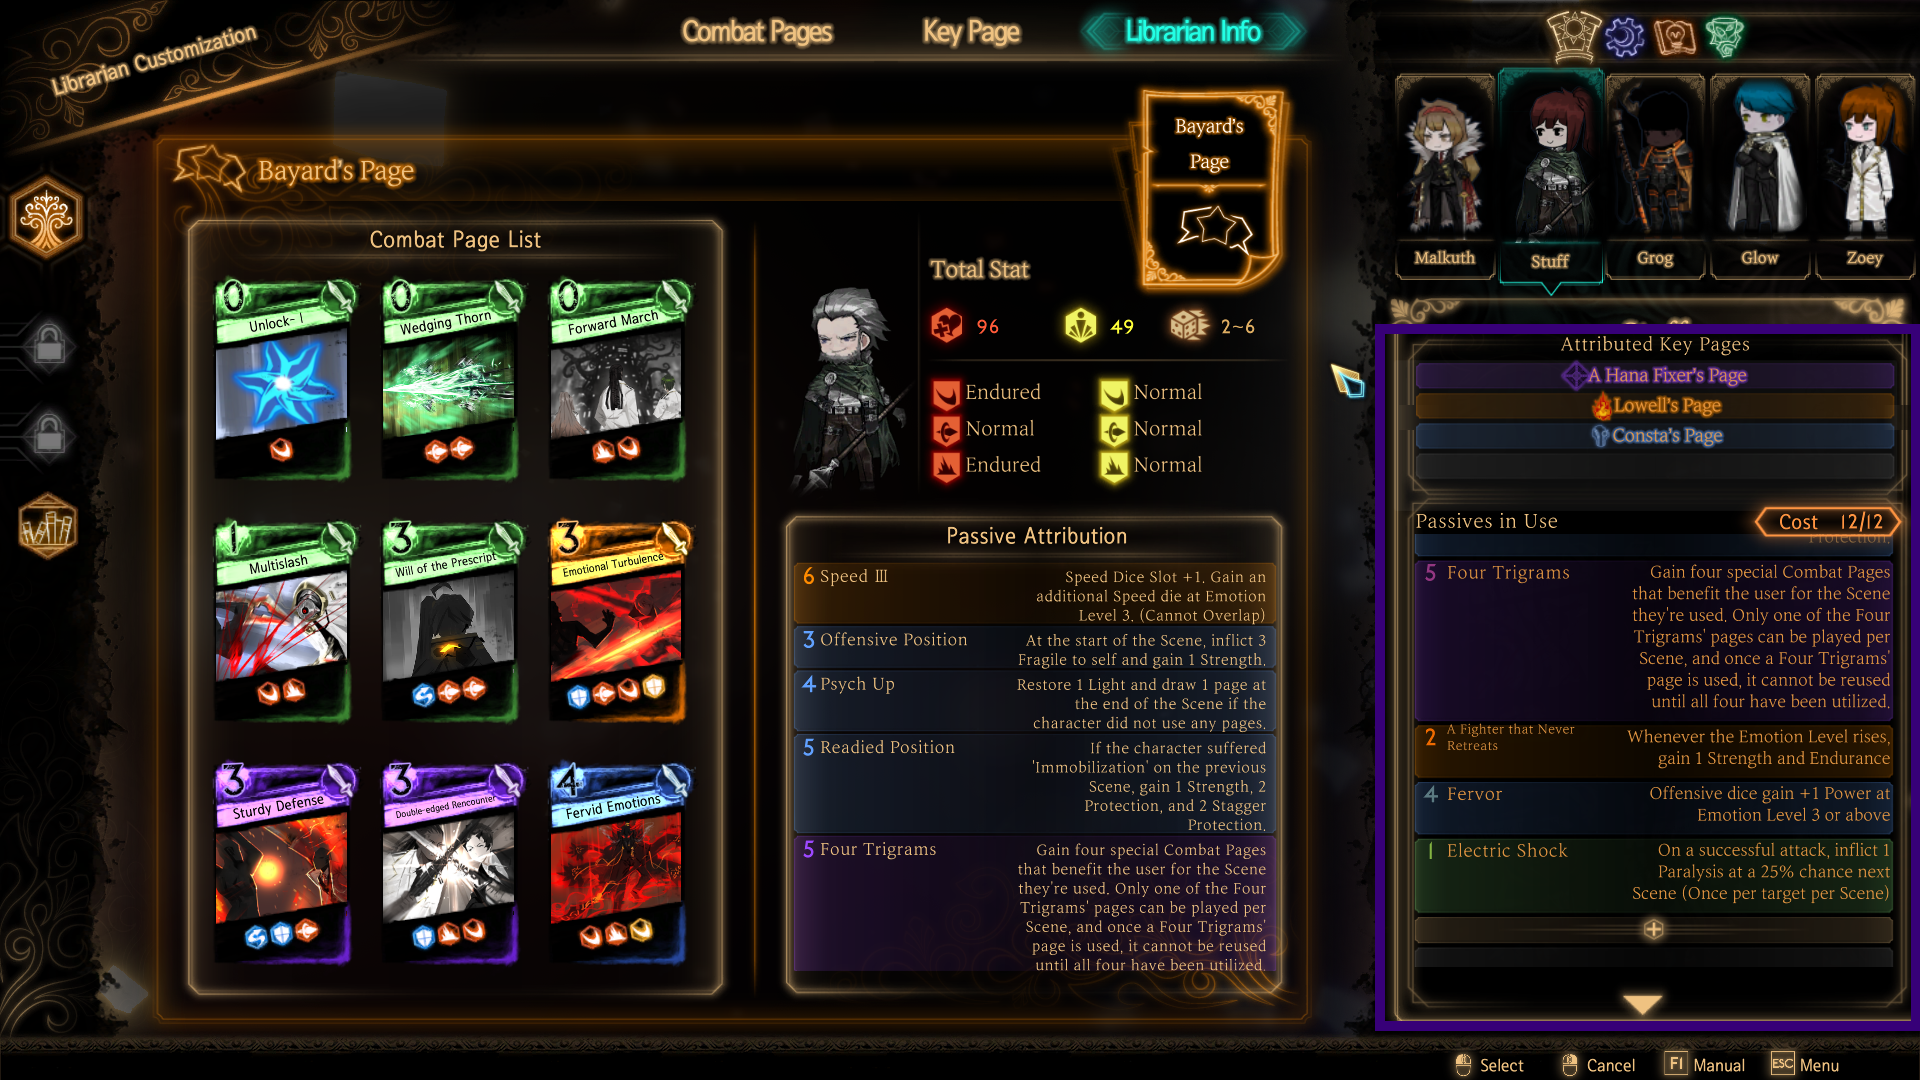
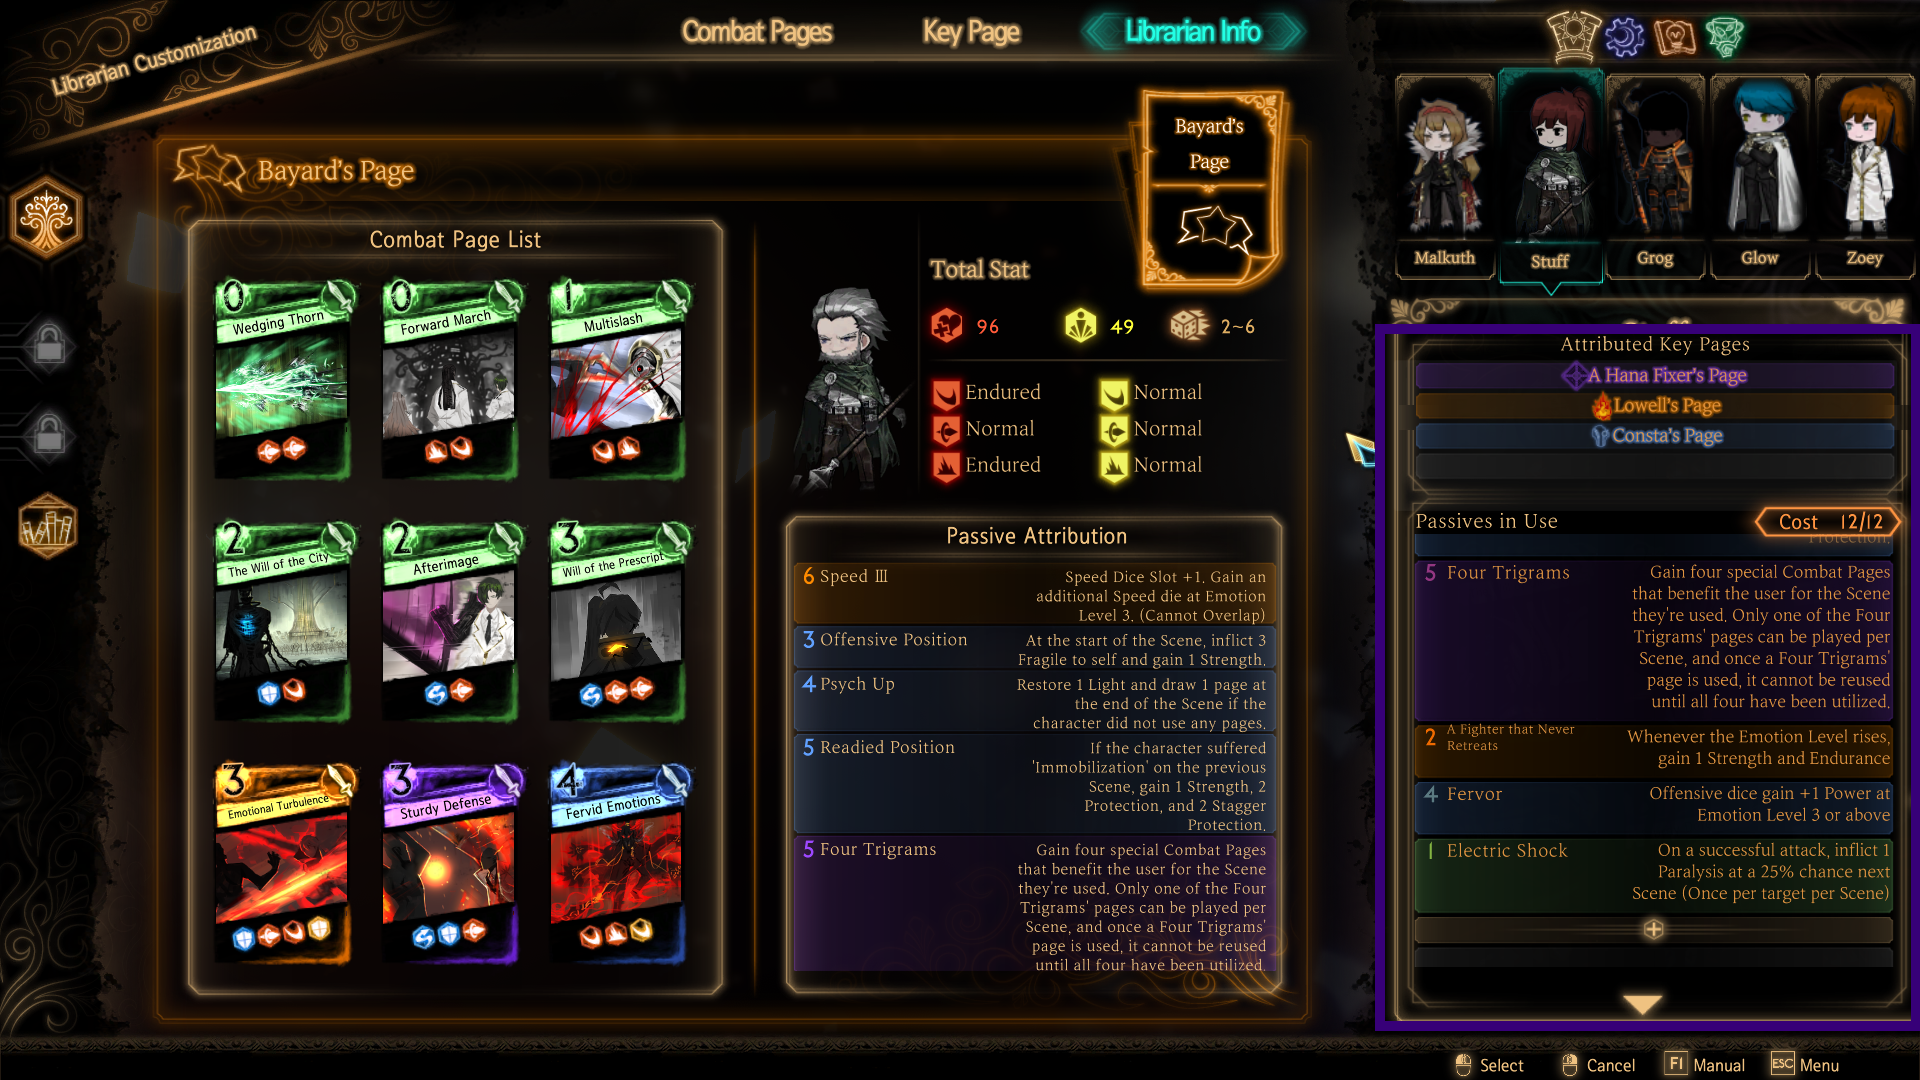
Update Malkuth decks

diff --git a/zola/content/articles/ensemble-spoiler-free/index.md b/zola/content/articles/ensemble-spoiler-free/index.md
@@ -2,7 +2,7 @@
 title = "Reverberation Ensemble Guide (and beyond) [SPOILER-FREE]"
 description = "This guide is for people who don’t want to build 45 decks for the Reverberation Ensemble, but still want to figure out the gameplay themselves."
 date = 2024-08-17
-updated = 2024-11-10
+updated = 2024-11-27
 draft = false
 
 [taxonomies]
@@ -28,16 +28,16 @@ For those who just want deckbuilds and want to figure out gameplay themselves, t
   * Wedging Thorn, Forward March, Multislash, Will of the City, Will of the Prescript, Emotional Turbulence, Double-edged Rencounter, Fervid Emotions, Raging Storm: Love
   * Four Trigrams, Volatile Passion, Mind Hauler, Electric Shock
 * Bayard
-  * Unlock, Wedging Thorn, Forward March, Multislash, Will of the Prescript, Emotional Turbulence, Sturdy Defense, Double-edged Rencounter, Fervid Emotions
+  * Wedging Thorn, Forward March, Multislash, Will of the City, Afterimage, Will of the Prescript, Emotional Turbulence, Sturdy Defense, Fervid Emotions
   * Four Trigrams, Fervor, A Fighter that Never Retreats, Electric Shock
 * Rudolph
-  * Unlock, Graze the Grass, Multislash, Will of the City, Will of the Prescript, Emotional Turbulence, Concentration, Duel, Mind Crush
+  * Graze the Grass, Wedging Thorn, Multislash, Will of the City, Afterimage, Will of the Prescript, Concentration, Duel, Mind Crush
   * Fervor, Remain Vigilant in Peace, Offensive Position, Bionic Charge-synchronized Hull
 * Hubert
-  * Frontal Assault, Wedging Thorn, Forward March, Multislash, Will of the Prescript, Emotional Turbulence, Sturdy Defense, Duel, Fervid Emotions
+  * Wedging Thorn, Forward March, Multislash, Will of the City, Afterimage, Will of the Prescript, Emotional Turbulence, Sturdy Defense, Fervid Emotions
   * Fervor, Firm as a Great Mountain, Offensive Position, Mind Hauler
 * Harold
-  * Frontal Assault, Wedging Thorn, Forward March, Multislash, Will of the Prescript, Emotional Turbulence, Sturdy Defense, Double-edged Rencounter, True Trigram Formation
+  * Wedging Thorn, Forward March, Multislash, Will of the City, Afterimage, Will of the Prescript, Emotional Turbulence, Sturdy Defense, True Trigram Formation
   * Fervor, Hugging Fire Sitting on Brushwood, Reindeer Treatment, Keeping in Stride
 
 {{ img(src="malkuth_1.png" class="ci" alt="Malkuth 1") }}

diff --git a/zola/content/articles/ensemble-spoiler-full/index.md b/zola/content/articles/ensemble-spoiler-full/index.md
@@ -2,7 +2,7 @@
 title = "Reverberation Ensemble Guide (and beyond) [SPOILER-FULL]"
 description = "This guide is for people who want to smash endgame Library of Ruina as hard as possible."
 date = 2024-08-17
-updated = 2024-11-10
+updated = 2024-11-27
 draft = false
 
 [taxonomies]
@@ -42,8 +42,10 @@ Philip is a 3-phase fight, with each phase locked behind a health gate. You can 
 
 * Phase 1: 
   * Clash your 3-costs against the double offensive pages.
-  * *Actively avoid* clashing into the defensive pages (Waned Eventide and Conflicting Emotions) and prefer to 1-side instead. The trailing 3-7 and 3-8 are not threatening. Only clash these pages if your nugget is at extremely low health and/or stagger, and a healthier nugget cannot reasonably redirect away from them.
-  * You're not really in a rush to get past this phase; focus here is to build hand size \+ team emotion level to prep for the next phase
+  * *Actively avoid* clashing into the defensive pages (Waned Eventide and Conflicting Emotions) and prefer to 1-side instead. The trailing 3-7 and 3-8 are not threatening. Only clash these pages if:
+    1. Your nugget is at extremely low health and/or stagger, or
+    2. You really want to build emotion level
+  * You're not really in a rush to get past this phase; focus here is to build hand size, maintain high light, and raise team emotion level to prep for the next phase
 * Phase 2: 
   * The babies are back, but thankfully don't have their annoying passives.
   * Mass spam, preferably at least once per scene. This is why building emotion is important; you get access to Ego masses and, hopefully, Xiao's also
@@ -58,14 +60,14 @@ Philip is a 3-phase fight, with each phase locked behind a health gate. You can 
 ### Recommended Abnos \+ Egos
 
 * Abnos:
-  * Tier 1: Nostalgic Embrace \> Display of Affection \> Matchlight \> Ashes \> The Fairies' Care \> Happy Memories
+  * Tier 1: Nostalgic Embrace \> Display of Affection \> Matchlight = Ashes = The Fairies' Care = Happy Memories
   * Tier 2: Gluttony \>\>\> Vines \> Predation \> Spores \> Worker Bee. Do not pick Footfalls
   * Tier 3: Loyalty
 * Egos: Green Stem \> FMF \> Wingbeat \> Hornet \> The Forgotten
 
 ### Demo
 
-{{ youtube(id="WcDaYmMIGhA") }}
+{{ youtube(id="xz4e2RUlguo") }}
 
 ## Optimized Build
 
